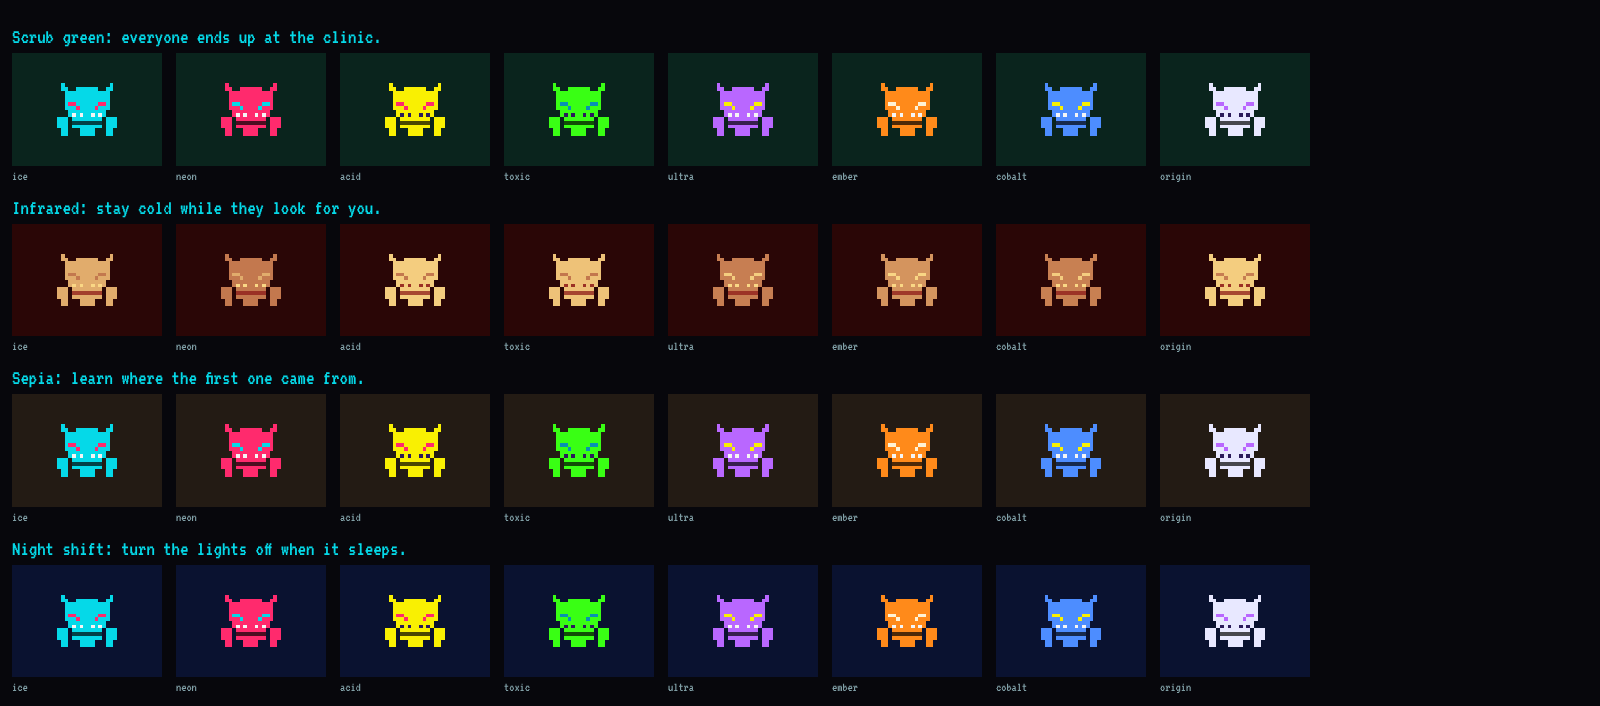
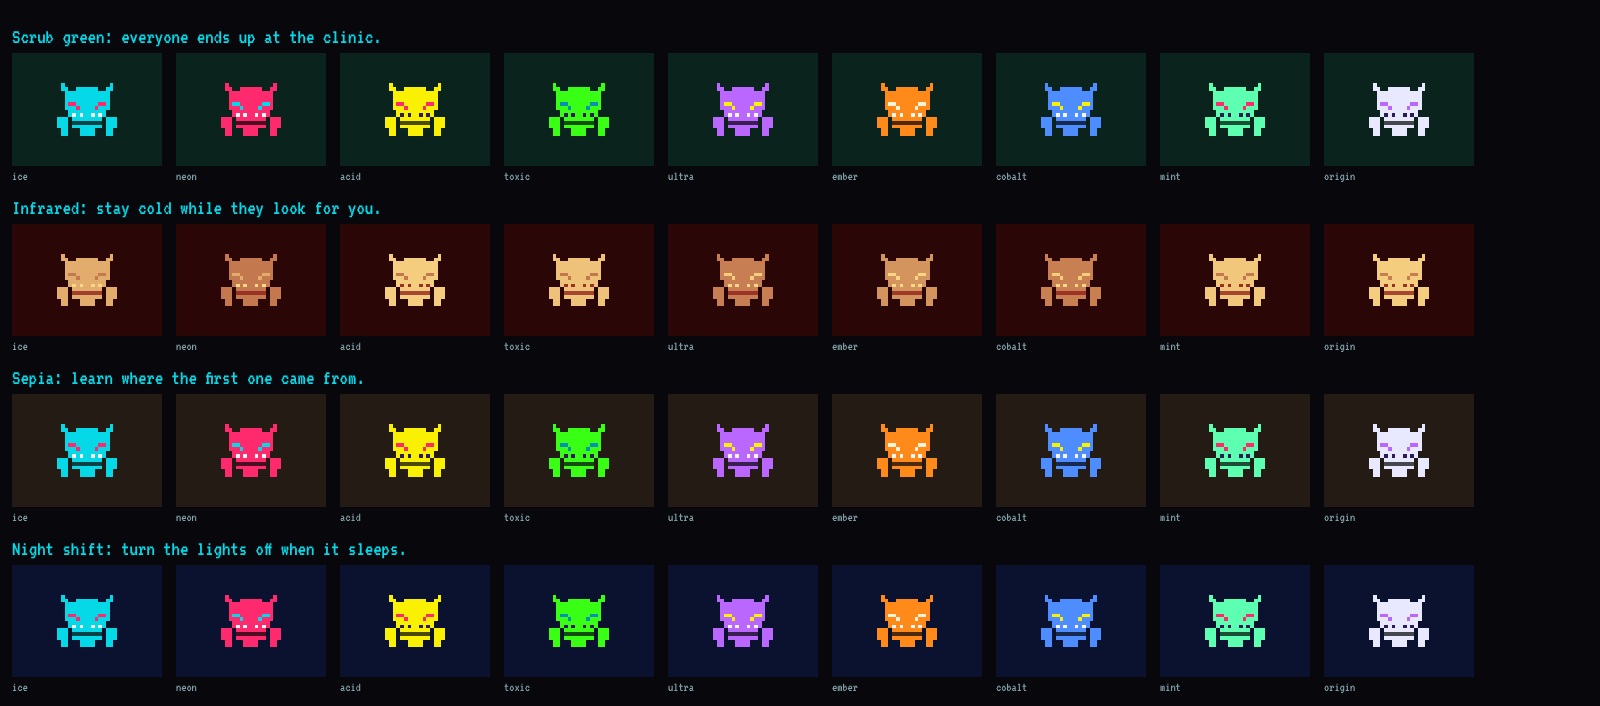
Palettes: add mint (between ice and toxic), with dark highlight marks
Passes every bar (screen contrast on all 14 tints, eyes 2.8:1, 52 from its nearest body). White marks on it are 1.17:1, so it takes the dark mark acid and toxic have; the palette test now checks marks on every new palette.

Claude-Session: https://claude.ai/code/session_01GZV4jpooPxxZJhC3is2GF8

diff --git a/prototype/netling2/palette-colors.js b/prototype/netling2/palette-colors.js
@@ -2,56 +2,56 @@
 // for the new palettes in palettes.js, as src/wearable-colors.js has them for the six.
 export const NEW_AUTO_COLORS = {
   'cap': [
-    { ember: '#b967ff', cobalt: '#05d9e8' },
+    { ember: '#b967ff', cobalt: '#05d9e8', mint: '#c8d0dc' },
   ],
   'scarf': [
-    { ember: '#ff2a6d', cobalt: '#ff2a6d' },
+    { ember: '#ff2a6d', cobalt: '#ff2a6d', mint: '#ff2a6d' },
   ],
   'shades': [
-    { ember: '#050508', cobalt: '#050508' },
-    { ember: '#3a3f49', cobalt: '#5d7a80' },
+    { ember: '#050508', cobalt: '#050508', mint: '#050508' },
+    { ember: '#3a3f49', cobalt: '#5d7a80', mint: '#5d7a80' },
   ],
   'visor': [
-    { ember: '#ff2a6d', cobalt: '#ff2a6d' },
-    { ember: '#b967ff', cobalt: '#ffffff' },
+    { ember: '#ff2a6d', cobalt: '#ff2a6d', mint: '#b967ff' },
+    { ember: '#b967ff', cobalt: '#ffffff', mint: '#ffffff' },
   ],
   'mohawk': [
-    { ember: '#ff2a6d', cobalt: '#ff2a6d' },
+    { ember: '#ff2a6d', cobalt: '#ff2a6d', mint: '#ff9f1c' },
   ],
   'tattoo': [
-    { ember: '#39ff14', cobalt: '#39ff14' },
+    { ember: '#39ff14', cobalt: '#39ff14', mint: '#39ff14' },
   ],
   'rebreather': [
-    { ember: '#b967ff', cobalt: '#ff2a6d' },
-    { ember: '#7843a6', cobalt: '#a61b47' },
+    { ember: '#b967ff', cobalt: '#ff2a6d', mint: '#c8d0dc' },
+    { ember: '#7843a6', cobalt: '#a61b47', mint: '#82878f' },
   ],
   'partyhat': [
-    { ember: '#ff2a6d', cobalt: '#ff2a6d' },
-    { ember: '#f9f002', cobalt: '#39ff14' },
+    { ember: '#ff2a6d', cobalt: '#ff2a6d', mint: '#ff9f1c' },
+    { ember: '#f9f002', cobalt: '#39ff14', mint: '#f9f002' },
   ],
   'bowtie': [
-    { ember: '#b967ff', cobalt: '#ff2a6d' },
+    { ember: '#b967ff', cobalt: '#ff2a6d', mint: '#b967ff' },
   ],
   'blush': [
-    { ember: '#ff6b9a', cobalt: '#ff6b9a' },
+    { ember: '#ff6b9a', cobalt: '#ff6b9a', mint: '#c8d0dc' },
   ],
   'laughingring': [
-    { ember: '#c0eeff', cobalt: '#c0eeff' },
-    { ember: '#7d9ba6', cobalt: '#7d9ba6' },
+    { ember: '#c0eeff', cobalt: '#c0eeff', mint: '#c0eeff' },
+    { ember: '#7d9ba6', cobalt: '#7d9ba6', mint: '#7d9ba6' },
   ],
   'laughingring.cap': [
-    { ember: '#c0eeff', cobalt: '#c0eeff' },
-    { ember: '#7d9ba6', cobalt: '#7d9ba6' },
+    { ember: '#c0eeff', cobalt: '#c0eeff', mint: '#c0eeff' },
+    { ember: '#7d9ba6', cobalt: '#7d9ba6', mint: '#7d9ba6' },
   ],
   'warpaint': [
-    { ember: '#ff2a6d', cobalt: '#ff2a6d' },
+    { ember: '#ff2a6d', cobalt: '#ff2a6d', mint: '#c8d0dc' },
   ],
   'laughingring.quiet': [
-    { ember: '#c0eeff', cobalt: '#c0eeff' },
-    { ember: '#7d9ba6', cobalt: '#7d9ba6' },
+    { ember: '#c0eeff', cobalt: '#c0eeff', mint: '#c0eeff' },
+    { ember: '#7d9ba6', cobalt: '#7d9ba6', mint: '#7d9ba6' },
   ],
   'laughingring.still': [
-    { ember: '#c0eeff', cobalt: '#c0eeff' },
-    { ember: '#7d9ba6', cobalt: '#7d9ba6' },
+    { ember: '#c0eeff', cobalt: '#c0eeff', mint: '#c0eeff' },
+    { ember: '#7d9ba6', cobalt: '#7d9ba6', mint: '#7d9ba6' },
   ],
 };

diff --git a/prototype/netling2/palettes.test.js b/prototype/netling2/palettes.test.js
@@ -29,7 +29,7 @@ const ratio = (a, b) => {
 
 test('the palettes are added before origin, which stays last, once', () => {
   registerPalettes();
-  assert.deepEqual(PALETTES.map((p) => p.name), ['ice', 'neon', 'acid', 'toxic', 'ultra', 'ember', 'cobalt', 'origin']);
+  assert.deepEqual(PALETTES.map((p) => p.name), ['ice', 'neon', 'acid', 'toxic', 'ultra', 'ember', 'cobalt', 'mint', 'origin']);
   assert.equal(new Set(PALETTES.map((p) => p.name)).size, PALETTES.length);
 });
 
@@ -41,6 +41,7 @@ test('each new palette meets the contrast and distinctness bars 1.0\'s six meet,
       assert.ok(ratio(p.accent, lcd) >= 4.4, `${p.name} accent on ${lcd}: ${ratio(p.accent, lcd).toFixed(2)}`);
     }
     assert.ok(ratio(p.main, p.accent) >= 2.1, `${p.name} eyes on the body: ${ratio(p.main, p.accent).toFixed(2)}`);
+    assert.ok(ratio(p.mark ?? '#f5f5f5', p.main) >= 2, `${p.name} highlight marks on the body: ${ratio(p.mark ?? '#f5f5f5', p.main).toFixed(2)}`);
     for (const q of PALETTES.filter((x) => x.name !== p.name)) assert.ok(deltaE(p.main, q.main) >= 35, `${p.name} against ${q.name}: ${deltaE(p.main, q.main).toFixed(0)}`);
   }
 });
@@ -59,7 +60,7 @@ test('nothing worn blends into a new palette, and every form composes inside the
         }
       }
     }
-    for (const palette of [5, 6]) {
+    for (const palette of [5, 6, 7]) {
       const { box } = composeLCD({ form, egg, palette, idle: 'none', worn: [{ id: 'crown' }] }, 1000);
       assert.ok(box.x >= 0 && box.x + box.w <= LCD_W && box.y >= 0 && box.y + box.h <= LCD_H, `${form.id} on palette ${palette}`);
     }

diff --git a/prototype/netling2/palettes.js b/prototype/netling2/palettes.js
@@ -1,4 +1,4 @@
-// Two new netling palettes for 2.0 (docs/NETLING_2_ACCESSORY_IDEAS.md, "Palettes"). Nothing here is decided or shipped; src/ is not edited.
+// Three new netling palettes for 2.0 (docs/NETLING_2_ACCESSORY_IDEAS.md, "Palettes"). Nothing here is decided or shipped; src/ is not edited.
 // A palette is { name, main, accent, mark? } as 1.0's (src/sim.js PALETTES); the body is `main`, the eyes and the flatline `accent`, and
 // `mark` the small highlight marks (white unless white would vanish).
 //
@@ -18,6 +18,8 @@ export const NEW_PALETTES = [
   { name: 'ember', main: '#ff8a1a', accent: '#fff3d6' },
   // Blue: ice is cyan and ultra is violet, with nothing between. A yellow accent, as ultra's, keeps it in the family.
   { name: 'cobalt', main: '#4d8dff', accent: '#f9f002' },
+  // Mint: between ice's cyan and toxic's lime, 52 from its nearest body (ice). Pink eyes, as ice's: 2.8:1 on the body. The marks (teeth, nose) are dark: white on this body is 1.17:1, as on acid and toxic.
+  { name: 'mint', main: '#5dffb0', accent: '#ff2a6d', mark: '#2b1b5a' },
 ];
 
 // Adds the palettes before `origin` (the last, root-only one), so rolling the base palettes would reach them and `origin` stays last.

diff --git a/docs/NETLING_2_ACCESSORY_IDEAS.md b/docs/NETLING_2_ACCESSORY_IDEAS.md
@@ -214,14 +214,15 @@ First drafts of every wearable (26, the Light ring in two versions), prop (10) a
 
 ## Palettes (2026-10-13)
 
-Two more netling palettes, built in `prototype/netling2/palettes.js` (`registerPalettes()`; `src/` untouched). 1.0 has six (ice cyan, neon pink, acid yellow, toxic green, ultra violet, and origin's pale lilac, root-only); the gaps are orange and a true blue.
+Three more netling palettes, built in `prototype/netling2/palettes.js` (`registerPalettes()`; `src/` untouched). 1.0 has six (ice cyan, neon pink, acid yellow, toxic green, ultra violet, and origin's pale lilac, root-only); the gaps are orange and a true blue.
 
 | Name (id) | Body | Eyes (accent) | Why |
 |---|---|---|---|
 | Ember (`ember`) | `#ff8a1a` orange | `#fff3d6` warm white | Fills the gap between neon and acid. A mid-tone accent cannot be 2.1:1 on a body this bright and 4.4:1 on the dark screen at once, so the eyes are warm white. |
 | Cobalt (`cobalt`) | `#4d8dff` blue | `#f9f002` yellow | Fills the gap between ice and ultra. Yellow eyes, as ultra's. |
+| Mint (`mint`) | `#5dffb0` mint green | `#ff2a6d` pink | Fills the gap between ice's cyan and toxic's lime (52 from ice, the nearest). Its highlight marks are dark (`#2b1b5a`), as acid's and toxic's, since white on it is 1.17:1. Added after a second search of sixteen candidates (2026-10-13): the only one to pass every bar. |
 
-Bars, from the six: the body 4.5:1 and the accent 4.4:1 against every tint's screen colour, the accent 2.1:1 against the body, and the body at least 35 apart (CIE76) from every other body. Both pass (palettes.test.js), and so does the wearables' blend check on every form (1.0's, the ideas, and the recolorable ones through automatic colours computed by `tools/wearable-colors.mjs`'s own method). Candidates dropped: coral and rose (their accents fail the screen contrast), aqua (too near toxic), a darker cobalt (`#3d7bff`, 4.2:1 on the screen). **Not done:** 1.0's `rollQuirk` rolls only the palettes that existed when `sim.js` loaded (`BASE_PALETTES`), so a newly hatched netling does not roll them until the real sim changes; the palettes are placed before `origin`, so `origin` moves from index 5 to 7, which a save-format change in 2.0 must account for (`quirk.palette` is an index); the wearables' automatic colours, the gallery and the field manual would be regenerated; no device look.
+Bars, from the six: the body 4.5:1 and the accent 4.4:1 against every tint's screen colour, the accent 2.1:1 against the body, the highlight marks 2:1 on the body (white, or a dark mark as acid, toxic and origin have), and the body at least 35 apart (CIE76) from every other body. Both pass (palettes.test.js), and so does the wearables' blend check on every form (1.0's, the ideas, and the recolorable ones through automatic colours computed by `tools/wearable-colors.mjs`'s own method). Candidates dropped: coral and rose (their accents fail the screen contrast), aqua (too near toxic), a darker cobalt (`#3d7bff`, 4.2:1 on the screen). **Not done:** 1.0's `rollQuirk` rolls only the palettes that existed when `sim.js` loaded (`BASE_PALETTES`), so a newly hatched netling does not roll them until the real sim changes; the palettes are placed before `origin`, so `origin` moves from index 5 to 8, which a save-format change in 2.0 must account for (`quirk.palette` is an index); the wearables' automatic colours, the gallery and the field manual would be regenerated; no device look.
 
 ## Build pass: shells, tints, effects, labels, the Lava lamp glow (2026-10-13)
 
